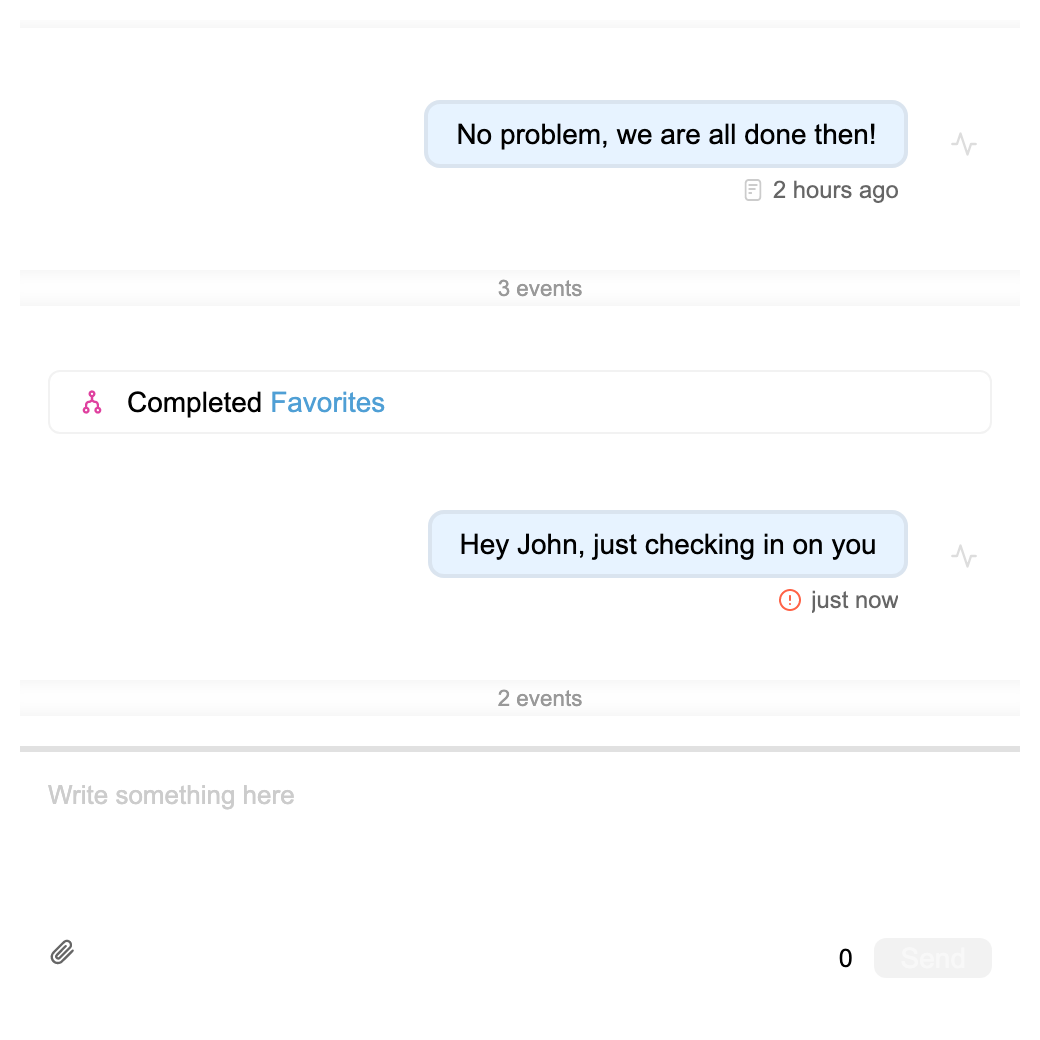
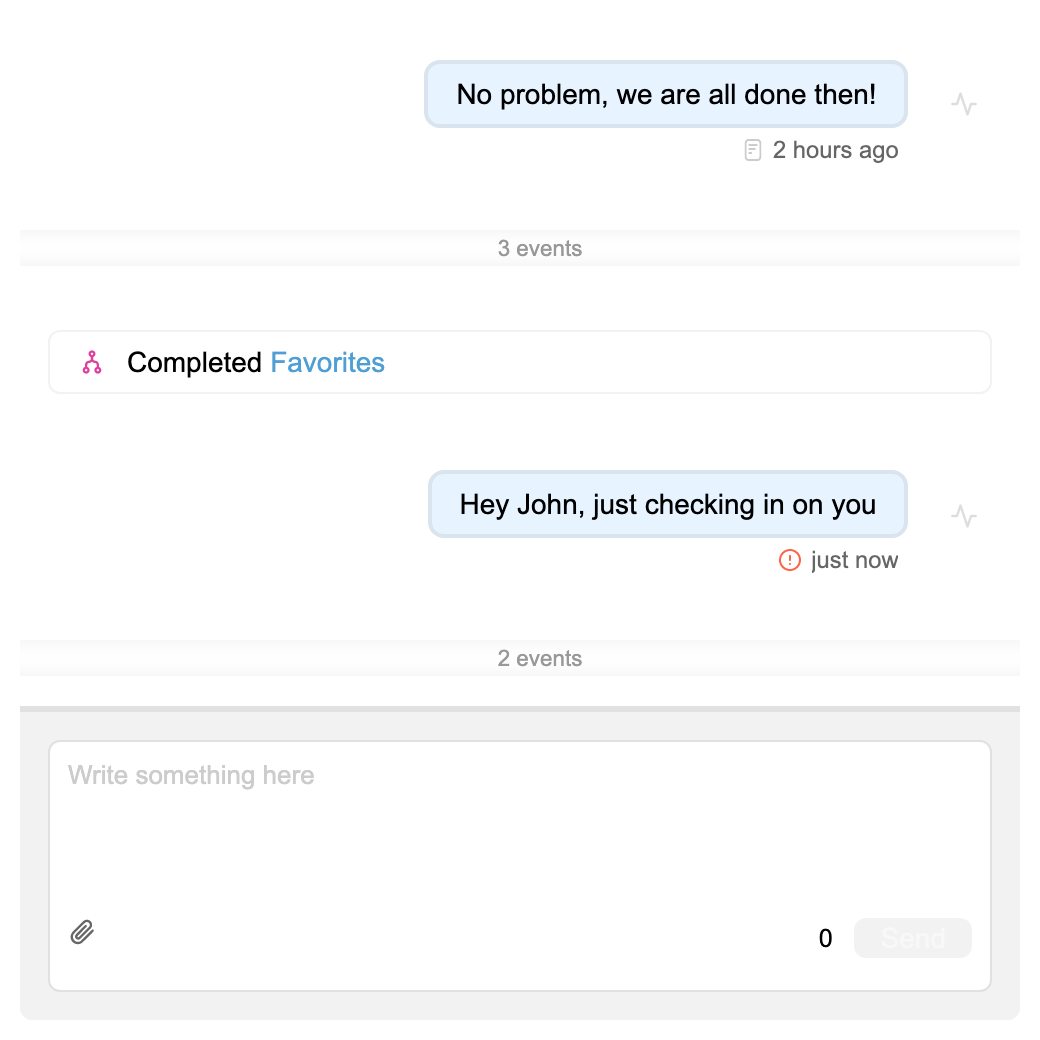
- regenerated a few more screenshots based on adding back grey box and focus-within styles - added clearMockPosts to utilts and switched posts from const to let - added clearMostPosts inside of beforeEach for all describe blocks containing multiple mockPosts

diff --git a/test/temba-contact-chat.test.ts b/test/temba-contact-chat.test.ts
@@ -8,6 +8,7 @@ import { CustomEventType } from '../src/interfaces';
 import { TicketList } from '../src/list/TicketList';
 import {
   assertScreenshot,
+  clearMockPosts,
   getClip,
   getComponent,
   loadStore,
@@ -202,6 +203,7 @@ describe('temba-contact-chat - contact tests', () => {
 
 describe('temba-contact-chat - contact tests - handle send tests - text no attachments', () => {
   beforeEach(() => {
+    clearMockPosts();
     mockGET(
       /\/contact\/history\/contact-.*/,
       '/test-assets/contacts/history.json'
@@ -276,6 +278,7 @@ describe('temba-contact-chat - contact tests - handle send tests - text no attac
 
 describe('temba-contact-chat - contact tests - handle send tests - attachments no text', () => {
   beforeEach(() => {
+    clearMockPosts();
     mockGET(
       /\/contact\/history\/contact-.*/,
       '/test-assets/contacts/history.json'
@@ -356,6 +359,7 @@ describe('temba-contact-chat - contact tests - handle send tests - attachments n
 
 describe('temba-contact-chat - contact tests - handle send tests - text and attachments', () => {
   beforeEach(() => {
+    clearMockPosts();
     mockGET(
       /\/contact\/history\/contact-.*/,
       '/test-assets/contacts/history.json'
@@ -462,7 +466,7 @@ describe('temba-contact-chat - contact tests - handle send tests - text and atta
     );
   });
 
-  it.only('with text and attachments - failure - more than 640 chars and more than 10 files', async () => {
+  it('with text and attachments - failure - more than 640 chars and more than 10 files', async () => {
     // we are a StoreElement, so load a store first
     await loadStore();
     const chat: ContactChat = await getContactChat({

diff --git a/test/utils.test.ts b/test/utils.test.ts
@@ -20,7 +20,7 @@ export interface CodeMock {
 }
 
 const gets: CodeMock[] = [];
-const posts: CodeMock[] = [];
+let posts: CodeMock[] = [];
 let normalFetch;
 
 export const showMouse = async () => {
@@ -139,6 +139,10 @@ export const mockPOST = (
   status = '200'
 ) => {
   posts.push({ endpoint, body, headers, status });
+};
+
+export const clearMockPosts = () => {
+  posts = [];
 };
 
 export const checkTimers = (clock: any) => {
